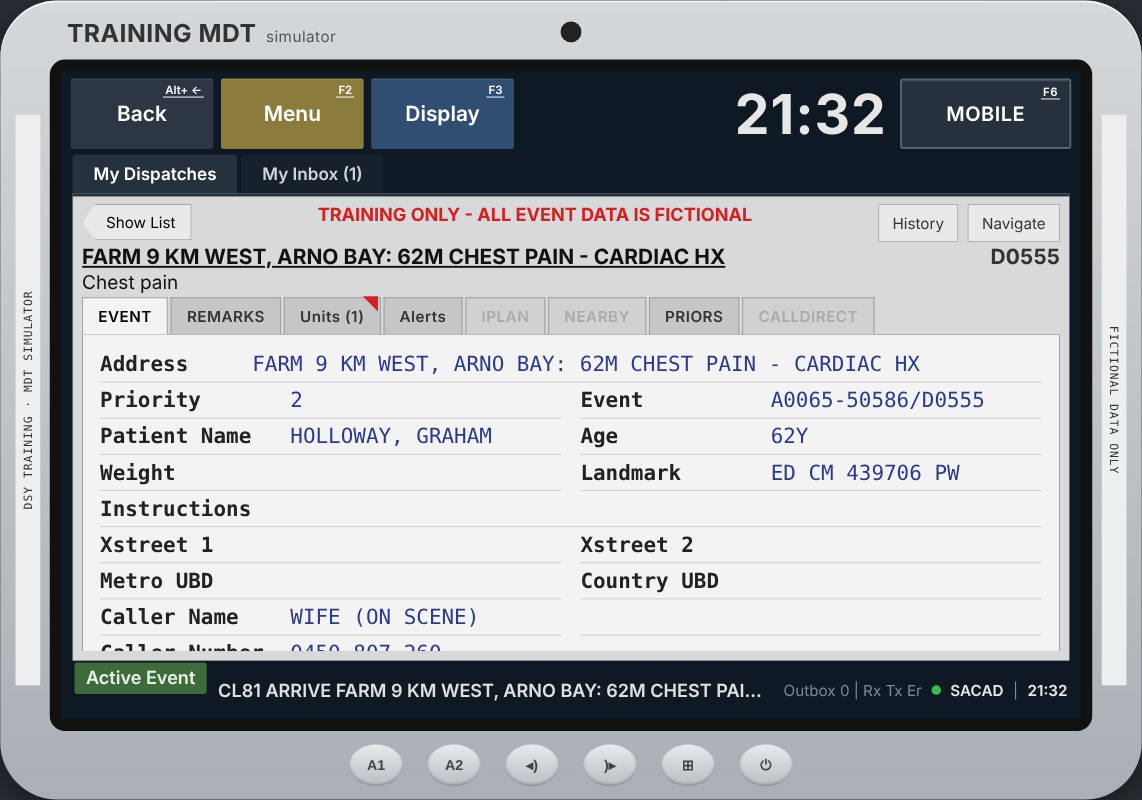
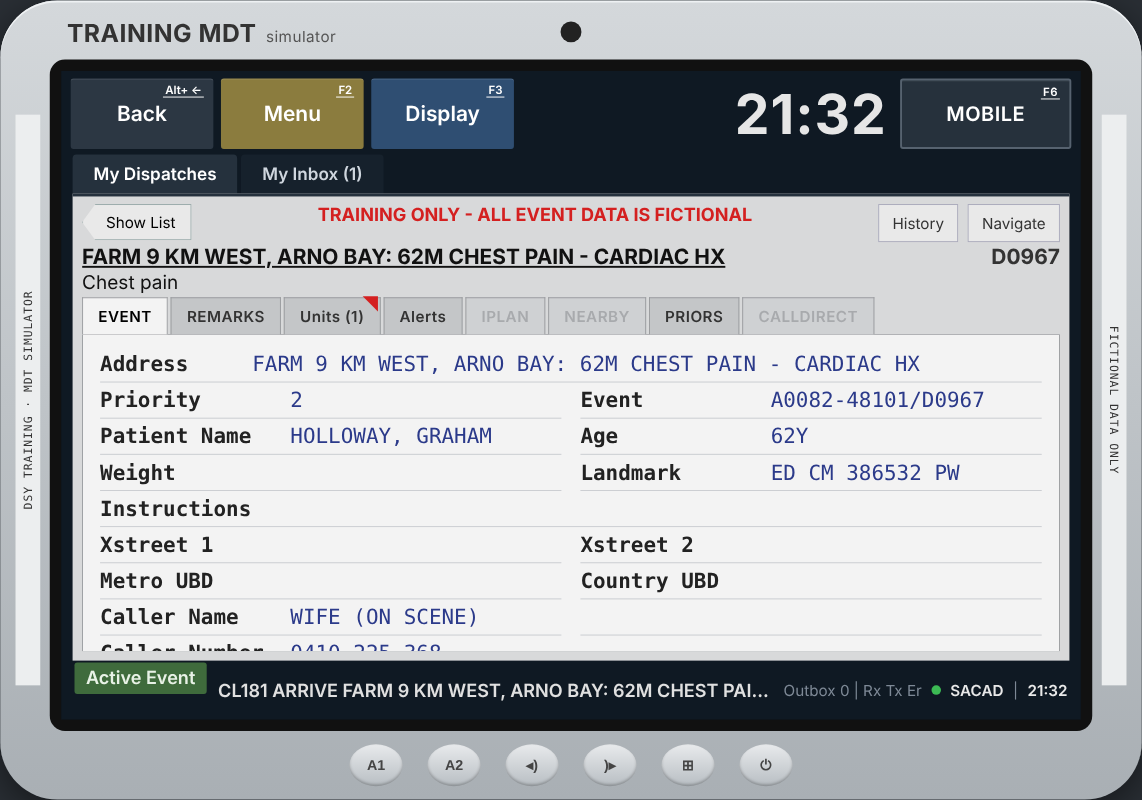
Case nights: Eyre Peninsula night call signs (PT181 for Kevin, CL181 for Graham)
Owner: XX81 for jobs 0800 to 1800, XX181 for 1800 to 0800. MDT screenshots retaken for both decks.

Claude-Session: https://claude.ai/code/session_01NsQZouMk9kUpGJUVX6yuzh

diff --git a/classroom/case-night/tools/mdt-shots.js b/classroom/case-night/tools/mdt-shots.js
@@ -6,12 +6,13 @@
 const { chromium } = require('playwright');
 const path = require('path');
 const SHOTS = {
-  // Graham: page 2115, Enroute 2116, scene 2132, Mobile 2150, Cleve Hospital 2210. CL81 = Cleve (owner, 11 Nov 2026).
-  'chest-pain': { job: 'chest-pain', start: '21:14:50', callsign: 'CL81', hospital: 'CLEVE HOSPITAL',
+  // Call signs (owner, 11 Nov 2026): Eyre Peninsula units are XX81 for jobs between 0800 and 1800 and XX181 between
+  // 1800 and 0800 (Tumby Bay TB81 / TB181, Cleve CL81 / CL181, Port Neill PT181 at night).
+  // Graham: page 2115 (night, so CL181), Enroute 2116, scene 2132, Mobile 2150, Cleve Hospital 2210.
+  'chest-pain': { job: 'chest-pain', start: '21:14:50', callsign: 'CL181', hospital: 'CLEVE HOSPITAL',
     toEnroute: 1, toRemarks: 10, toScene: 6, onScene: 18, transport: 20 },
   // Kevin: page 0247, Enroute 0248, scene 0300, Mobile 0322, Tumby Bay Hospital 0352 (owner chose Tumby Bay, 11 Nov 2026).
-  // Call sign: the simulator's default until the owner gives the Port Neill one.
-  'acpo': { job: 'acpo', start: '02:46:50', callsign: '', hospital: 'TUMBY BAY HOSPITAL',
+  'acpo': { job: 'acpo', start: '02:46:50', callsign: 'PT181', hospital: 'TUMBY BAY HOSPITAL',
     toEnroute: 1, toRemarks: 8, toScene: 4, onScene: 22, transport: 30 }
 };
 const deck = process.argv[2], S = SHOTS[deck];

diff --git a/CLAUDE.md b/CLAUDE.md
@@ -66,6 +66,8 @@ settings or play files you leave in the container: send files with the file tool
 - GTN for AO chest pain: the app lists it as "Consult", but the owner confirmed (8 Nov 2026) that the AO crew may still
   give the FIRST dose without a consult if SBP and HR are within the protocol limits, then consult for further doses.
   ACPO GTN stays consult-first.
+- Eyre Peninsula call signs (owner, 11 Nov 2026): XX81 for jobs between 0800 and 1800, XX181 between 1800 and 0800
+  (Tumby Bay TB81 / TB181, Cleve CL81 / CL181, Port Neill PT181 at night). Use them in MDT screenshots and jobs.
 - Resus Room podcast RSS: `https://theresusroom.libsyn.com/rss` (follow redirects). Link only episodes found there.
 
 ## Status (14 Oct 2026)
@@ -99,5 +101,5 @@ Sign-in and facilitator access (7 Nov 2026, live; PRs #181 and #182 merged; PART
 PCR scenario writer (8 Nov 2026, owner's private claude.ai artifact, not in the repo): the owner types a job, picks AO or Paramedic, a protocol or guideline (or "Generally unwell": basic or universal care, Treat and Refer, Refusal, Prolonged Care, no drugs unless named) and the RDR zone counts; Claude (the artifact's sample capability) writes the case card and model PCR from the walk-through card or the P guideline text plus the app dose table, checks the zones, and gives a `/tools/pcr/#c=` link.
 Run a session glossaries (`hub/glossary.js`, keyed by topic id, 10 Nov 2026): a fold-out "Glossary (n terms)" in each topic on `/hub/run/`; each term is tagged with its source (protocol code, Lead instructor, or unmarked = DSY plain-English meaning for review). Chest pain first (37 terms from CPP-007-AO v4.2 and the Graham walk-through); add other topics when the owner asks; bump the `glossary.js?v=` tag in `hub/run/index.html`. Dementia and changed behaviours (`/microlearning/dementia/`, AO, 10 Nov 2026): CPP-017-AO Acute Behavioural Disturbance - AO v7.1 (Jan 2025, no review date shown) with CTL-011, CTL-052, CTL-053 SAT, CTL-056 MSE, CTL-122 STAMP, CTL-123 LOWLINE, CTL-125 and CTL-094 PAINAD v1.0; PLST and NDB models and de-escalation points from the SAAS CEP Semester 2 2026 Dementia session (owner's facilitator guide and PowerPoint, not in the repo); words from the Dementia Australia Dementia Language Guidelines (2021). PAINAD scorer (no severity bands: CTL-094 has none). Narrated by Lee (two takes). The session's de-escalation video (owner's YouTube, "dementia de escalation part 1", vWBHc2wJUh8) is embedded in the De-escalate section (10 Nov 2026). Walk-through `/modules/dementia-ao/` (Jo-Anne Smith 84, farmhouse near Cummins, 1840 in May, husband Ray; owner chose home setting and pain + possible infection; all DSY-written): risk assessment, one voice, LOWLINE, acknowledge and redirect, hearing aids, toilet, PAINAD 7 to 2, SAT +2 to 0, MSE, NEWS2 4 (new confusion), paracetamol 1 g (CPP-013-AO), EOC Clinician: no medication, voluntary transport to Cummins Hospital with Ray. Variations: knife (CTL-011), de-escalation fails (lorazepam/olanzapine on EOC advice, care and control), low BGL. Linked via related.js, card on `/ao/`, hub topic `dementia`. Cache tag 20261110a. Live 10 Nov 2026 (PR #194). Extras (10 Nov 2026, owner asked; all DSY-written, owner to review): MDT job `dementia` (P2, generic custom mapping), customiser template `dementia-ao` (11 fields; page 17:00 to 20:30 (end of her day; morning paracetamol over 4 h ago), age 80 to 89 so "An 8x-year-old" reads right, husband stays 86, sceneMinutes 56; `scenarios/tools/convert-dementia.js`) published 10 Nov 2026; PCR job `joan` (PAINAD on the pain line, MSE in CNS); stations `/stations/dementia/` (1 risk, STAMP, SAT; 2 LOWLINE role play with acknowledge-and-redirect lines; 3 PAINAD cards + paracetamol; 4 obs with consent, NEWS2, MSE; 5 when de-escalation fails, EOC call, CTL-125 statement; no restraint practice). Cache tag 20261110b, topics.js 20261110b, PCR jobs.js 20261110b, MDT jobs.js v=8. Extras live 10 Nov 2026 (PR #195). Cache tag 20261110c.
 Dementia patient renamed 10 Nov 2026 (owner): Joan Pedler -> Jo-Anne Smith everywhere (Pedler is a common Cummins-district name; avoid real local surnames); PCR job id `joanne`; customiser row updated in place (md5 checked). The narrated intro video of `/microlearning/dementia/` still says "Joan" (not re-recorded).
-Chest pain case night (`/classroom/chest-pain/`, 10 Nov 2026, owner's idea, instructor-led): one slide show for a whole job: Lee's intro video and key points, Graham's eight break points (questions one per click, notes = expected answers) and decision tiles (room votes, click shows the answer), MDT screenshots at each status (owner, 11 Nov 2026: pictures instead of the live MDT; `tools/mdt-shots.js` retakes them), PCR trainer QR and model card, debrief; skills stations are next week's session (owner). Built live from the module and walk-through content files (`data/build.js`), so no copied clinical text; slide order and cues DSY-written. Linked from Run a session (`slides:` in `hub/topics.js`, tag 20261110d). About 110 min. Live 10 Nov 2026 (PR #199). 11 Nov 2026 (owner): Graham's hospital is Cleve Hospital, 20 min (MDT farm is 9 km west of Arno Bay; was an unnamed 35-min regional hospital that didn't fit the 2144 call / 2210 handover), pain onset about 45 min (was 40); changed in the walk-through, MDT job, PCR job and customiser converter (sceneMinutes 18, transport default 20); MDT screenshots use call sign CL81 (Cleve, owner). Live 11 Nov 2026 (PR #200); Supabase `chest-pain-ao` row updated in place (md5 checked). 11 Nov 2026 (owner): Graham's backup is a paramedic crew 55 min (same time as the old ICP; no ICP mentioned), MedSTAR "may be available once more information is known" (MDT remark keeps MEDSTAR TBC); walk-through, MDT job (remark and custom defaults), customiser converter (backup_name default "paramedic crew", backup_mins 55); MDT screenshots retaken. Live 11 Nov 2026 (PR #201); Supabase row updated in place (md5 checked). Other walk-throughs: ACPO mentions ICPs only as CPAP scope (kept); asthma, stroke and pain mention MedSTAR (unchanged). ACPO case night (`/classroom/acpo/`, 11 Nov 2026, owner asked; same order, Kevin's walk-through and the ACPO module; MDT screenshots page 0247 to Tumby Bay Hospital 0352 (owner chose Tumby Bay), call sign TB85 default until the owner gives Port Neill's; PCR `kevin`; about 110 min). Engine moved to `/classroom/case-night/` (shared assets, `tools/mdt-shots.js <deck>`, README with steps for the next topic). Not live until merged. Next: other topics' nights when the owner asks.
+Chest pain case night (`/classroom/chest-pain/`, 10 Nov 2026, owner's idea, instructor-led): one slide show for a whole job: Lee's intro video and key points, Graham's eight break points (questions one per click, notes = expected answers) and decision tiles (room votes, click shows the answer), MDT screenshots at each status (owner, 11 Nov 2026: pictures instead of the live MDT; `tools/mdt-shots.js` retakes them), PCR trainer QR and model card, debrief; skills stations are next week's session (owner). Built live from the module and walk-through content files (`data/build.js`), so no copied clinical text; slide order and cues DSY-written. Linked from Run a session (`slides:` in `hub/topics.js`, tag 20261110d). About 110 min. Live 10 Nov 2026 (PR #199). 11 Nov 2026 (owner): Graham's hospital is Cleve Hospital, 20 min (MDT farm is 9 km west of Arno Bay; was an unnamed 35-min regional hospital that didn't fit the 2144 call / 2210 handover), pain onset about 45 min (was 40); changed in the walk-through, MDT job, PCR job and customiser converter (sceneMinutes 18, transport default 20); MDT screenshots use call sign CL181 (Cleve at night; was CL81). Live 11 Nov 2026 (PR #200); Supabase `chest-pain-ao` row updated in place (md5 checked). 11 Nov 2026 (owner): Graham's backup is a paramedic crew 55 min (same time as the old ICP; no ICP mentioned), MedSTAR "may be available once more information is known" (MDT remark keeps MEDSTAR TBC); walk-through, MDT job (remark and custom defaults), customiser converter (backup_name default "paramedic crew", backup_mins 55); MDT screenshots retaken. Live 11 Nov 2026 (PR #201); Supabase row updated in place (md5 checked). Other walk-throughs: ACPO mentions ICPs only as CPAP scope (kept); asthma, stroke and pain mention MedSTAR (unchanged). ACPO case night (`/classroom/acpo/`, 11 Nov 2026, owner asked; same order, Kevin's walk-through and the ACPO module; MDT screenshots page 0247 to Tumby Bay Hospital 0352 (owner chose Tumby Bay), call sign PT181 (Port Neill at night); PCR `kevin`; about 110 min). Engine moved to `/classroom/case-night/` (shared assets, `tools/mdt-shots.js <deck>`, README with steps for the next topic). Not live until merged. Next: other topics' nights when the owner asks.
 Still to do: stations for snake bite, sepsis, pain. Update this list as work is done.

diff --git a/classroom/case-night/README.md b/classroom/case-night/README.md
@@ -34,7 +34,8 @@ Graham's job change. PCR: `/tools/pcr/#job=graham`. Linked from Run a session (`
 Copy `/classroom/acpo/` (its `build.js` finds the job panels from "Dispatch and en route" to "Handover" and reads a
 module built from panels). Change the two content paths in `data/manifest.js`, `DECK_NAME` in the three pages, and in
 `build.js` the module panel names, MDT captions, PCR job and stations. Add the deck to `SHOTS` in `tools/mdt-shots.js`
-(job id, start time, minutes between statuses, hospital, call sign), check the MDT job matches the walk-through's
+(job id, start time, minutes between statuses, hospital, call sign: XX81 for jobs 0800 to 1800, XX181 for 1800 to
+0800, owner), check the MDT job matches the walk-through's
 times, place and hospital, then take the screenshots. Add `slides:` to the topic in `hub/topics.js` and bump its tag.
 Bump the `?v=` tags in the deck's pages and `data/manifest.js` whenever the deck or the shared engine changes.
 
@@ -42,6 +43,5 @@ Bump the `?v=` tags in the deck's pages and `data/manifest.js` whenever the deck
 
 Same order as chest pain: the module's intro video and its "The protocol" boxes, the walk-through's principle and
 background, Kevin's eight break points with decision tiles and MDT screenshots (page 0247, Enroute 0248, scene 0300,
-Mobile 0322, Tumby Bay Hospital 0352, owner's choice; call sign is the simulator default TB85 until the owner gives the
-Port Neill one), the PCR trainer (`kevin`), the debrief and five variations, then next week's chest pain and ACPO
+Mobile 0322, Tumby Bay Hospital 0352, owner's choice; call sign PT181, Port Neill at night), the PCR trainer (`kevin`), the debrief and five variations, then next week's chest pain and ACPO
 stations. The walk-through has no safety brief box, so the "Before we start" slide is DSY-written. About 110 minutes.
